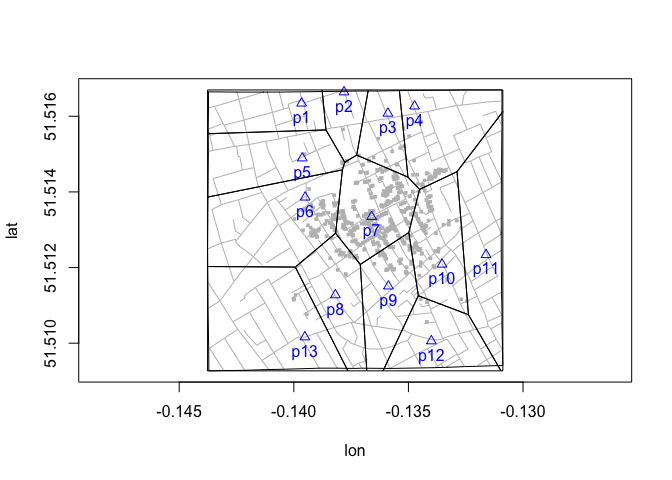
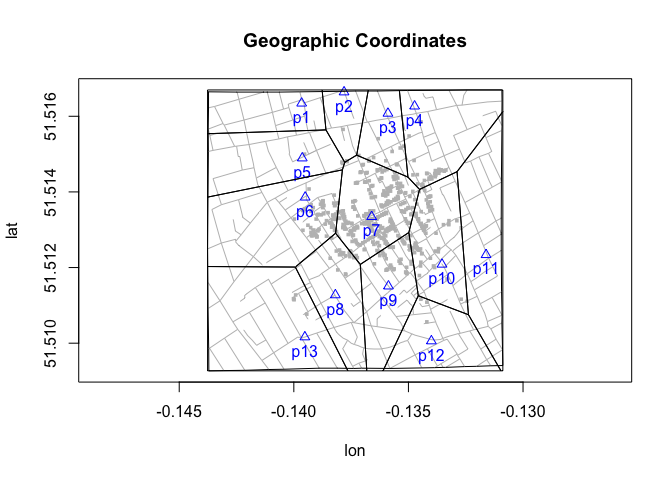
draft introductory sections

Changed region(s): [[0.3438, 0.0625, 0.6875, 0.125]]

diff --git a/docs/notes/latlongVoronoi.md b/docs/notes/latlongVoronoi.md
@@ -1,7 +1,53 @@
 Voronoi Diagrams with Longitude and Latitude Data
 ================
 
-## Voronoi diagram with nominal coordinates
+## introduction
+
+This is a work-in-progress note about how I’m approaching the
+computation and visualization of Voronoi diagrams with geographic data
+(with longitude and latitude).
+
+The elephant-in-the-room is why not use [spatial](https://rspatial.org/)
+or [GIS](https://qgis.org/) tools and approaches? Here’re two answers.
+First, right now I’m simply trying to extend the existing functionality
+of ‘cholera’ to include geographic data. Second, I’m not sure whether I
+can or should port that functionality to those tools and approaches.
+
+If I’m wrong about any of this (be it obvious or subtle, technical or
+conceptual), please let me know.
+
+## georeferencing
+
+Dodson and Tobler (1992) digitized John Snow’s map by applying an
+arbitrary set of Cartesian coordinates to features on the map (e.g.,
+roads, pumps, fatalities). I estimated the longitude and latitude of
+those “nominal” coordinates by using the “Georeferencer” tool and the
+[OpenStreetMap](https://www.openstreetmap.org) XYZ tiles in
+[QGIS](https://qgis.org/).
+
+## Voronoi diagrams
+
+Voronoi diagrams carve up a space into regiions based on the distance
+(typically Euclidean) to some set of sites of interest. A good example
+is how the coffee shops in your town carve up the clientele creating
+exclusive “neighborhoods” (i.e., catchment areas) for each shop. How do
+these neighborhoods emerge?
+
+For the sake of illustration, let’s make the usual all else being equal
+assumption (e.g., coffee quality, barista banter, etc.) so that the only
+thing that affects your choice is the shop’s distance from your home. If
+you were thinking algorithmically, you might compute the distance to
+each store and pick the closest one. If we were to repeat this for
+everyone in town, distinct neighborhoods will emerge. These are the
+cells in a Voronoi diagram. The edges of the polygons are the cutpoint
+of equal distance between coffee shops with adjacent neighborhoods.
+
+In my case, I’m interested in how the water pumps in 1854 Soho,
+Westminster (UK) created distinct neighborhoods that identify who we’d
+expect to use one pump rather than another.
+
+Here’s Voronoi diagram when I apply deldir::deldir() to the nominal
+coordinates:
 
 ``` r
 snowMap(latlong = FALSE)
@@ -10,11 +56,16 @@ vars <- c("x", "y")
 cells <- cholera::voronoiPolygons(pmp[, vars], rw.data = cholera::roads[, vars],
   latlong = FALSE )
 invisible(lapply(cells, polygon))
+title(main = "Nominal Coordinates")
 ```
 
-![](latlongVoronoi_files/figure-gfm/voronoi-1.png)<!-- -->
+![](latlongVoronoi_files/figure-gfm/voronoi_nominal-1.png)<!-- -->
 
-## Voronoi diagram with geographic coordinates
+## the problem
+
+The problem is that we can’t simply apply deldir::deldir(), a 2D
+algorithm, to data with geographic coordinates. You’ll get the “wrong”
+answer:
 
 ``` r
 snowMap(latlong = TRUE)
@@ -23,9 +74,32 @@ vars <- c("lon", "lat")
 cells <- cholera::voronoiPolygons(pmp[, vars], rw.data = cholera::roads[, vars],
   latlong = TRUE )
 invisible(lapply(cells, polygon))
+title(main = "Geographic Coordinates")
 ```
 
 ![](latlongVoronoi_files/figure-gfm/voronoi_naive-1.png)<!-- -->
+
+While the two diagrams above are different, why do I believe the former
+is “right” but the latter is “wrong”? Might this be the result of the
+fact that the former uses nominal “xy” coordinates while the latter uses
+longitude-latitude?
+
+This is partially true. Put aside the Voronoi diagrame for a moment.
+Other than the aspect ratio used to create the graphs (the geographic
+plot uses asp = 1.65; the nominal plot uses asp = 1), the underlying
+features of graphs (the shape of road network and the locations of the
+water pumps) essentially look the same:
+
+``` r
+snowMap()
+snowMap(latlong = TRUE)
+```
+
+<img src="latlongVoronoi_files/figure-gfm/latlong-1.png" width="50%" /><img src="latlongVoronoi_files/figure-gfm/latlong-2.png" width="50%" />
+
+In fact, since the relative positions of the pumps are quite similar,
+one might expect that the Voronoi diagrams, for reasons discussed in the
+previous section, should also look similar.
 
 ## “brute force” Voronoi diagram
 
@@ -293,3 +367,4 @@ points(cholera::pumps[, c("lon", "lat")])
 text(cholera::pumps[, c("lon", "lat")], labels = paste0("p", 1:13), pos = 1)
 ```
 
+<img src="latlongVoronoi_files/figure-gfm/terra2-1.png" style="display: block; margin: auto;" />
